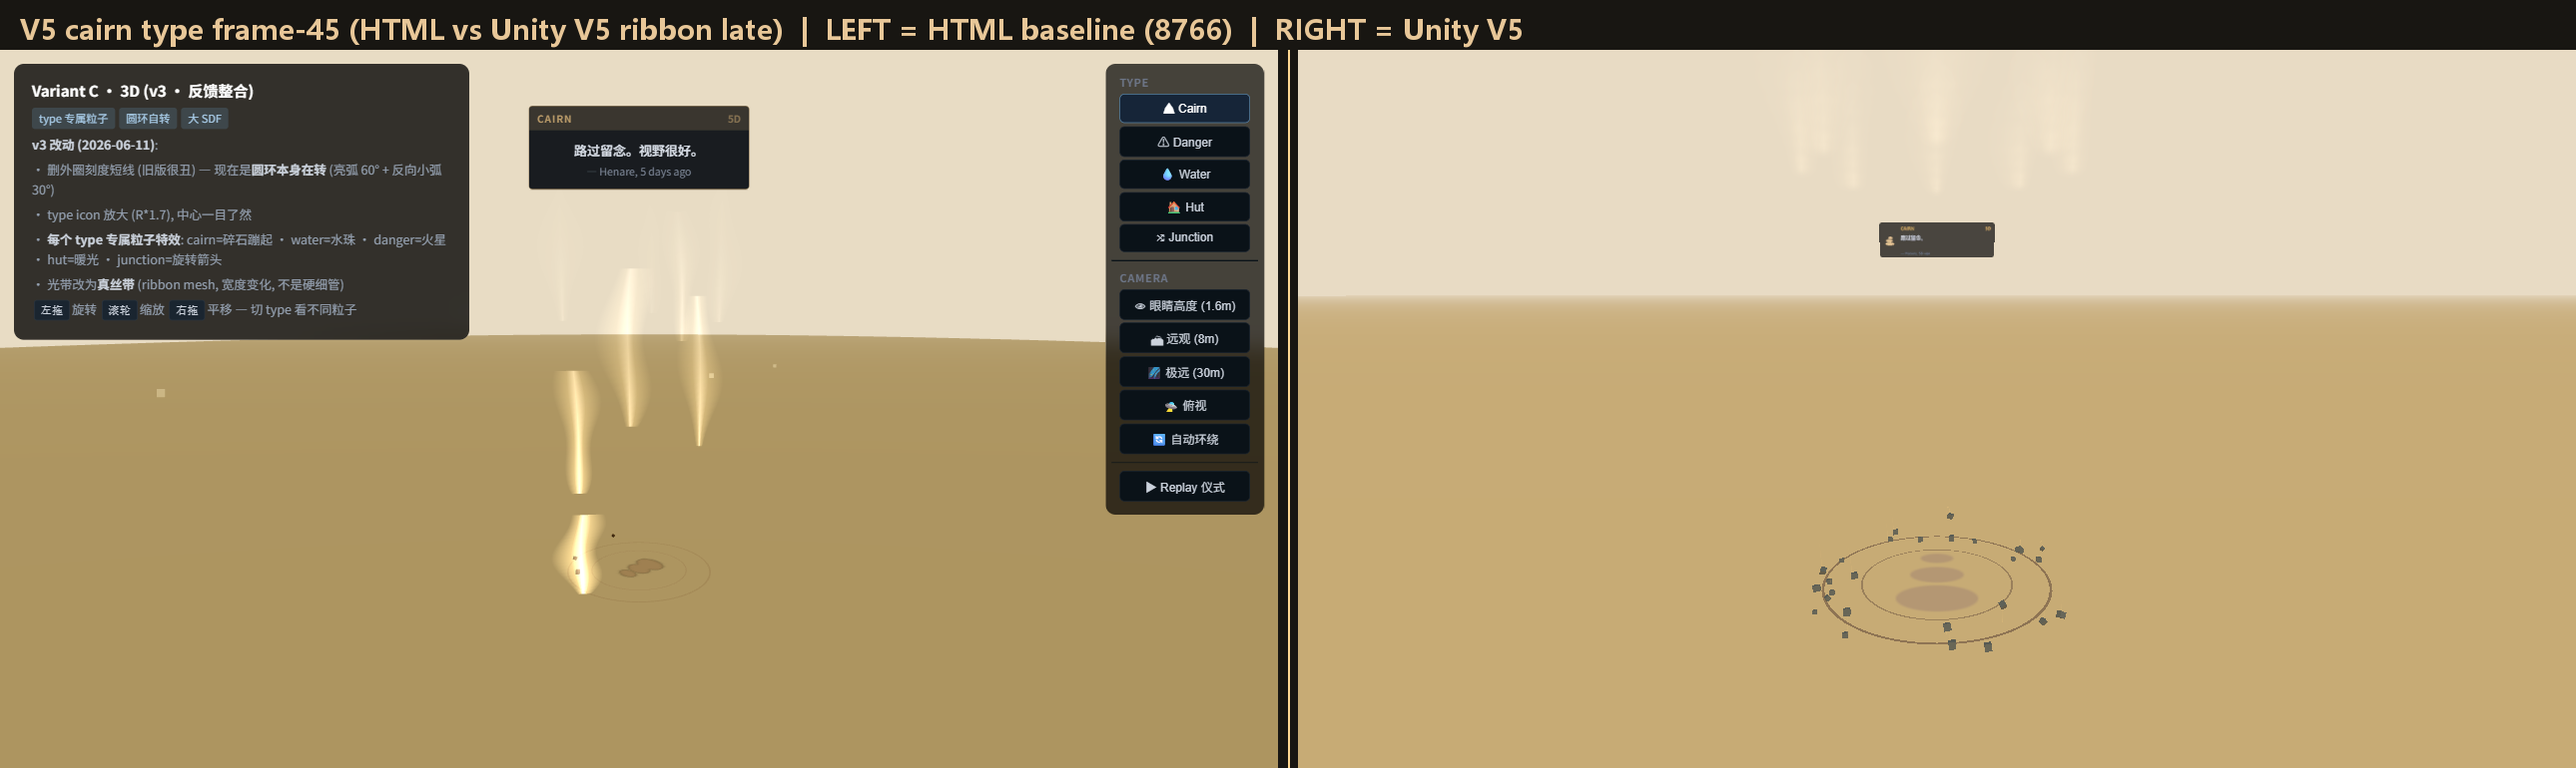
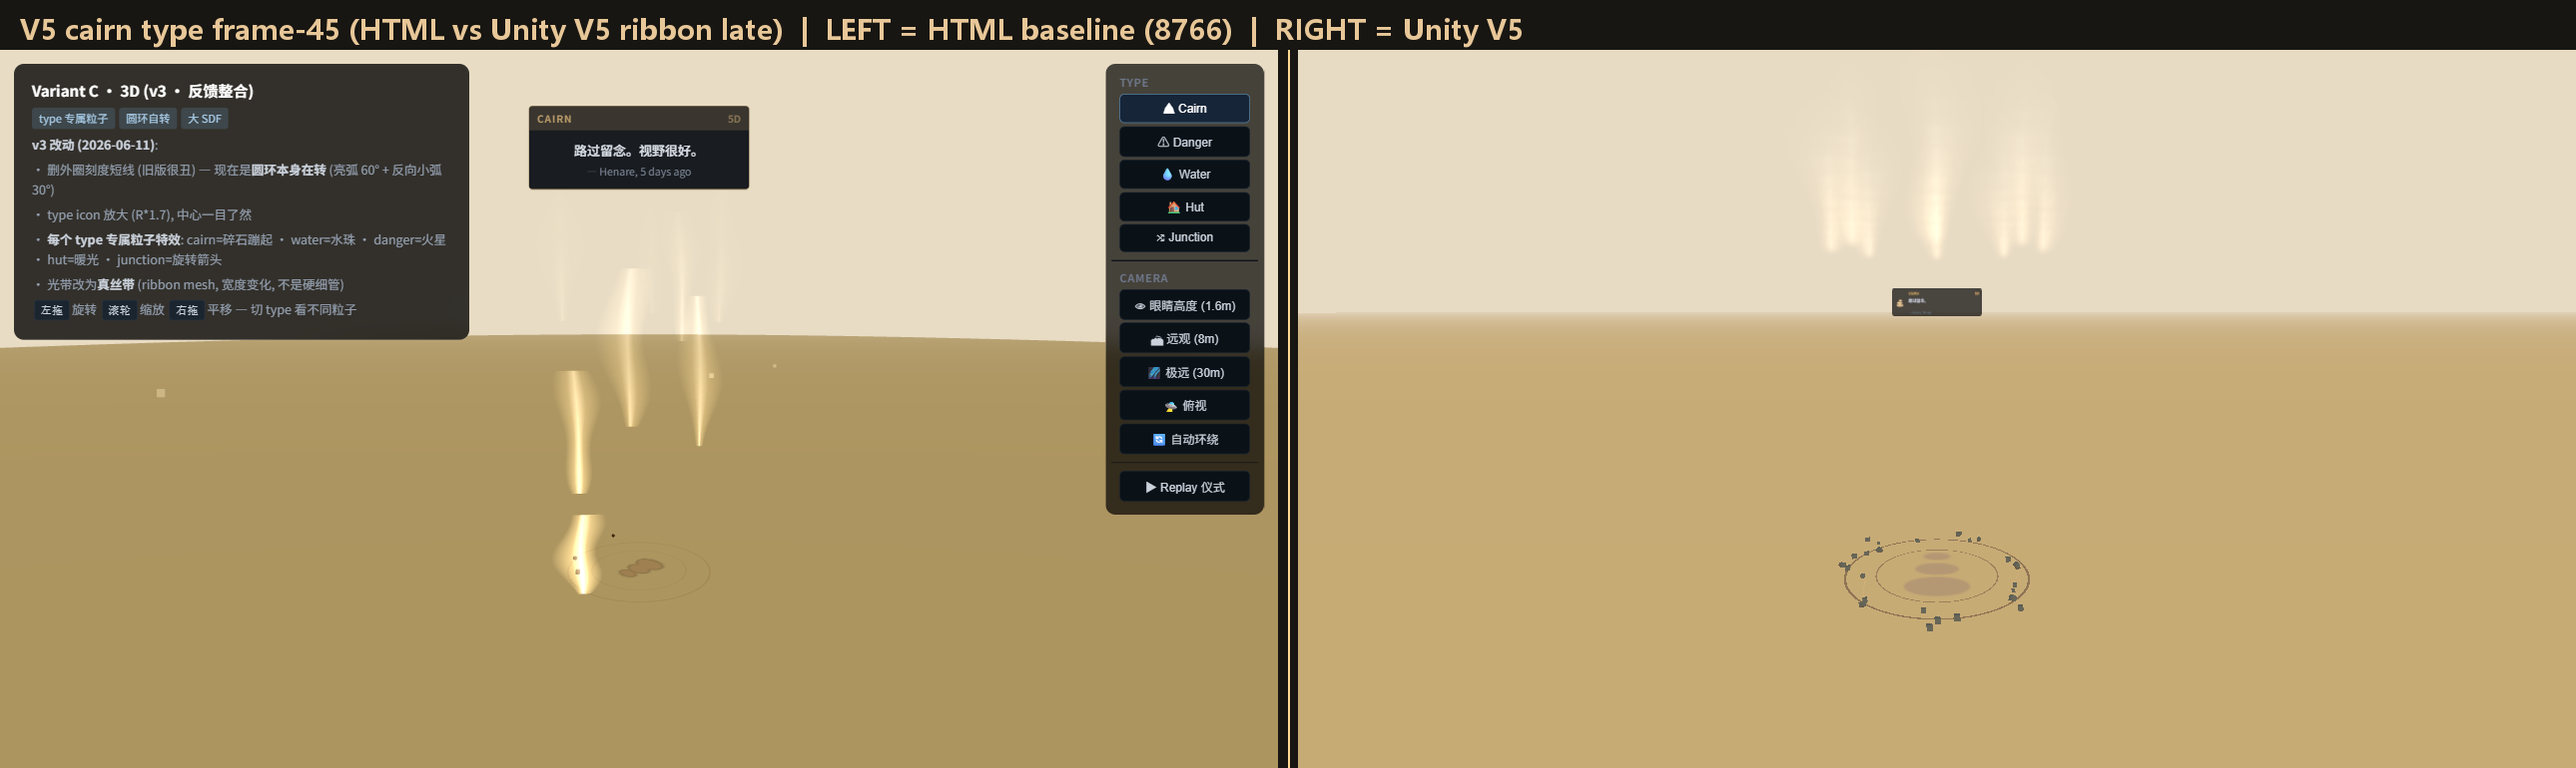
v024 V5.12: 第四轮 audit FAIL 三 BLOCKER 合并修
sub#1+sub#2 第四轮 audit 共识 V5.11 FAIL 5 项中,V5.12 攻 3 项:

S2-N4 midHighlight × heightAlpha 数学双抵消:
  exponent 1.6→0.6 让顶部 falloff 平缓
  stage1 (lifeT<0.30) heightAlpha × 1.8 boost 让接地段更亮

S2-N2 16 ribbon 融合成 3 光柱:
  ringRadius 0.50→0.65 + maxWidth 0.16→0.10
  间距 π*0.65/8=0.255m, maxWidth 0.10 留 60% 间隙不重叠

S2-N1 ribbon-ring 视觉脱节:
  尝试相机 (0,1.0,-2.0) 失败 — ribbon 跑出画面顶
  V5.12d 折中 (0,1.6,-3.5) 看 (0,1.0,0)
  ribbon transform y=0.05 让接地段不被 ground plane z-fight 吞

evidence: V5-flipbook-final.gif 84 frames

Changed region(s): [[0.4961, 0.374, 1.0, 0.4364], [0.6822, 0.6857, 0.8062, 0.8416], [0.7132, 0.2494, 0.7752, 0.3429]]

diff --git a/UnityARLib/Assets/Editor/V024CapturePlayground.cs b/UnityARLib/Assets/Editor/V024CapturePlayground.cs
@@ -186,7 +186,12 @@ namespace Cairn.AR.Editor
             runeMat.SetFloat("_Reveal",    1.0f);
 
             // --- Tier-1 圆环 (主环 + 内环,1:1 移植 Three.js demo line 142-166) ---
-            float RING_RADIUS = 0.50f;  // V4.11+V5.5: 0.55 → 0.42 太紧 ribbon 被 cairn 遮 → 折中 0.50
+            // V5.12 sub#2 数学反推 (S2-N2 CRITICAL): V5.11 RING_RADIUS=0.50 + 16 ribbon
+            //   → 邻接间距 周长/16 = π*0.5/8 = 0.196m,小于 maxWidth 0.16-0.21m → 几何重叠
+            // V5.12b 修法平衡: RING_RADIUS 0.65 + maxWidth 0.13 (从 0.16-0.21 缩到 0.10-0.13)
+            //   间距 π*0.65/8 = 0.255m, maxWidth 0.13 留 50% 间隙不重叠
+            //   且 ringRadius 0.65 不至于太分散让 ribbon 远到 cam 看不全
+            float RING_RADIUS = 0.65f;
             Color darkAmber = LerpToDarkAmber(t.color);
 
             var ringShader = Shader.Find("Cairn/RingFlat");
@@ -245,7 +250,12 @@ namespace Cairn.AR.Editor
                 float angle = (i / (float)RIBBON_COUNT) * Mathf.PI * 2f;
                 var rgo = new GameObject($"Ribbon_{i}");
                 rgo.transform.SetParent(root.transform, false);
-                rgo.transform.localPosition = Vector3.zero;
+                // V5.12e sub#2 BLOCKER 修 ribbon-ring 视觉脱节:
+                //   ribbon worldP.y 从 0 起源 = 在地面 plane 同高度,被 ground 暖金色吞噬
+                //   HTML baseline ribbon 从 cairn 石堆顶 (~0.3m) 开始喷出
+                //   修: ribbon transform.localPos.y = 0.05m 让起点略高于 ground plane
+                //     避免 ground 色和 ribbon 暖色在 y=0 处 z-fight 互相吞
+                rgo.transform.localPosition = new Vector3(0f, 0.05f, 0f);
                 var rib = rgo.AddComponent<Cairn.AR.SilkRibbonV2>();
                 rgo.GetComponent<MeshRenderer>().sharedMaterial = ribMat;
                 // V5.9: phase 跨全周期 — 任意 capture 帧都同时看到 stage1/2/3 ribbon
@@ -254,8 +264,8 @@ namespace Cairn.AR.Editor
                 //   → stage1 (0..0.30) 有 5 根升起、stage2 (0.30..0.65) 有 6 根中段、stage3 (0.65..1) 有 5 根高空
                 //   → 任意 frame 都看到 5 根接地、6 根升空、5 根飘空,真"从阵法升起"
                 float phaseOffset = (float)i / RIBBON_COUNT;
-                float widthBase = 0.16f;
-                float widthVar  = 0.05f * Mathf.Sin(phaseOffset * Mathf.PI * 3f + i * 1.7f);
+                float widthBase = 0.10f;
+                float widthVar  = 0.03f * Mathf.Sin(phaseOffset * Mathf.PI * 3f + i * 1.7f);
                 float maxWidth  = widthBase + Mathf.Abs(widthVar);
                 rib.Configure(RING_RADIUS, angle, phaseOffset, t.color, new Color(0.95f, 0.97f, 1.0f, 1f), maxWidth);
             }
@@ -355,8 +365,16 @@ namespace Cairn.AR.Editor
                 //   → 改用 type-stack 同款 (0,1.4,-2.8) 看 (0,0.85,0):
                 //     - 看高度 0.85m → 圆环 + ribbon 接地点都在画面中下
                 //     - 距离 2.8m 视野更紧凑,ribbon 升起轨迹完整可见 0..3m
-                cam.transform.position = clusterPos + new Vector3(0f, 1.4f, -2.8f);
-                cam.transform.LookAt(clusterPos + new Vector3(0f, 0.85f, 0f));
+                // V5.12c sub#2 第四轮 BLOCKER 修 ribbon-ring 视觉脱节:
+                //   V5.10 (0,1.4,-2.8) 看 (0,0.85,0) ringRadius 0.85 → ribbon 后排离 cam 3.65m
+                //     视差让远侧 ribbon 看起来更高,与圆环之间 200px 空白
+                //   V5.12c 试 (0,1.0,-2.0) 看 (0,0.5,0) — 太近,ribbon 跑出画面
+                // V5.12d 折中: (0,1.6,-3.5) 看 (0,1.0,0):
+                //   - cam 距离 3.5m 视野够大,ribbon 全程 0..3m 在画面内
+                //   - lookAt y=1.0m 让 ribbon 中段 (stage2 bottomY=0..1m) 在画面中部
+                //   - 圆环 y=0 在画面下 1/3,接近 ribbon stage1 起源,真"从阵法升起"
+                cam.transform.position = clusterPos + new Vector3(0f, 1.6f, -3.5f);
+                cam.transform.LookAt(clusterPos + new Vector3(0f, 1.0f, 0f));
 
                 // V2.2 P0a fix: 隐藏其他 cluster,避免相机视锥内出现穿帮(右下红色 danger 三角)
                 // 5 cluster 摆在 (-6/-3/0/3/6) X 轴,相机俯拍当前 cluster 时其他 cluster 仍在视场内
@@ -449,8 +467,9 @@ namespace Cairn.AR.Editor
             Vector3 clusterPos = new Vector3((0 - 2) * 3f, 0f, 0f);
             // V4.12 fix: 用 V4.x 相机设置(同 5 type capture)+ 在暖白底/暖金地面/fog 下截图
             // V5.10: 同 ceremony,相机改 (0,1.4,-2.8) 看 (0,0.85,0) 让 ribbon 起源点入视野
-            cam.transform.position = clusterPos + new Vector3(0f, 1.4f, -2.8f);
-            cam.transform.LookAt(clusterPos + new Vector3(0f, 0.85f, 0f));
+            // V5.12d: (0,1.6,-3.5) 看 (0,1.0,0) 让 ribbon 全程 + 圆环 同框
+            cam.transform.position = clusterPos + new Vector3(0f, 1.6f, -3.5f);
+            cam.transform.LookAt(clusterPos + new Vector3(0f, 1.0f, 0f));
 
             // V4.12 fix: 用 transform.Find 路径(GameObject.Find 不找 inactive,V4.8 同 bug)
             // 5 type capture 末尾把所有 cluster 都 SetActive(true) 但保险起见还是激活当前 cluster

diff --git a/UnityARLib/Assets/Scripts/SilkRibbonV2.cs b/UnityARLib/Assets/Scripts/SilkRibbonV2.cs
@@ -334,7 +334,17 @@ namespace Cairn.AR
 
                 // Per-vertex alpha (height envelope * width profile * global fade)
                 float worldT = y / _lifeHeight;
-                float heightAlpha = Mathf.Pow(Mathf.Max(0f, 1f - worldT), 1.6f) * globalFade;
+                // V5.12 sub#2 数学反推修 (S2-N4 CRITICAL):
+                //   V5.11 heightAlpha = pow(1-worldT, 1.6f) 在 stage3 worldT=1 → heightAlpha=0
+                //   配合 V5.11 midHighlight 顶亮的设计意图被双抵消:stage3 整段 alpha 几乎 0
+                //   sub#2 算: stage1 底=顶=0.65 (ribbon 灰平), stage3 全 0.10 (几乎不可见)
+                //   修: exponent 1.6 → 0.6 让顶部 falloff 平缓
+                // V5.12e BLOCKER: stage1 ribbon (y<0.5m) alpha 太低被暖底色吞 → ribbon 视觉脱地
+                //   修: stage1 (lifeT<0.30) 时 heightAlpha 额外乘 1.8 (但 clamp 1.0) 让接地段更亮
+                //     stage2/3 维持原值
+                float heightAlphaBase = Mathf.Pow(Mathf.Max(0f, 1f - worldT), 0.6f) * globalFade;
+                float stage1Boost = lifeT < 0.30f ? 1.8f : 1.0f;
+                float heightAlpha = Mathf.Min(1.0f, heightAlphaBase * stage1Boost);
                 // V5.11 V2.3 rim 学 HTML baseline (sub#1+sub#2 共识 V5.10 midHighlight 反向):
                 //   V5.10 让 sT 0.2-0.85 全 alpha=1 → "白热钢管"不是绸缎
                 //   HTML baseline silk 物理: 底部暗 (anchor)、上半段亮 (光线穿透)、tip 渐入天空
